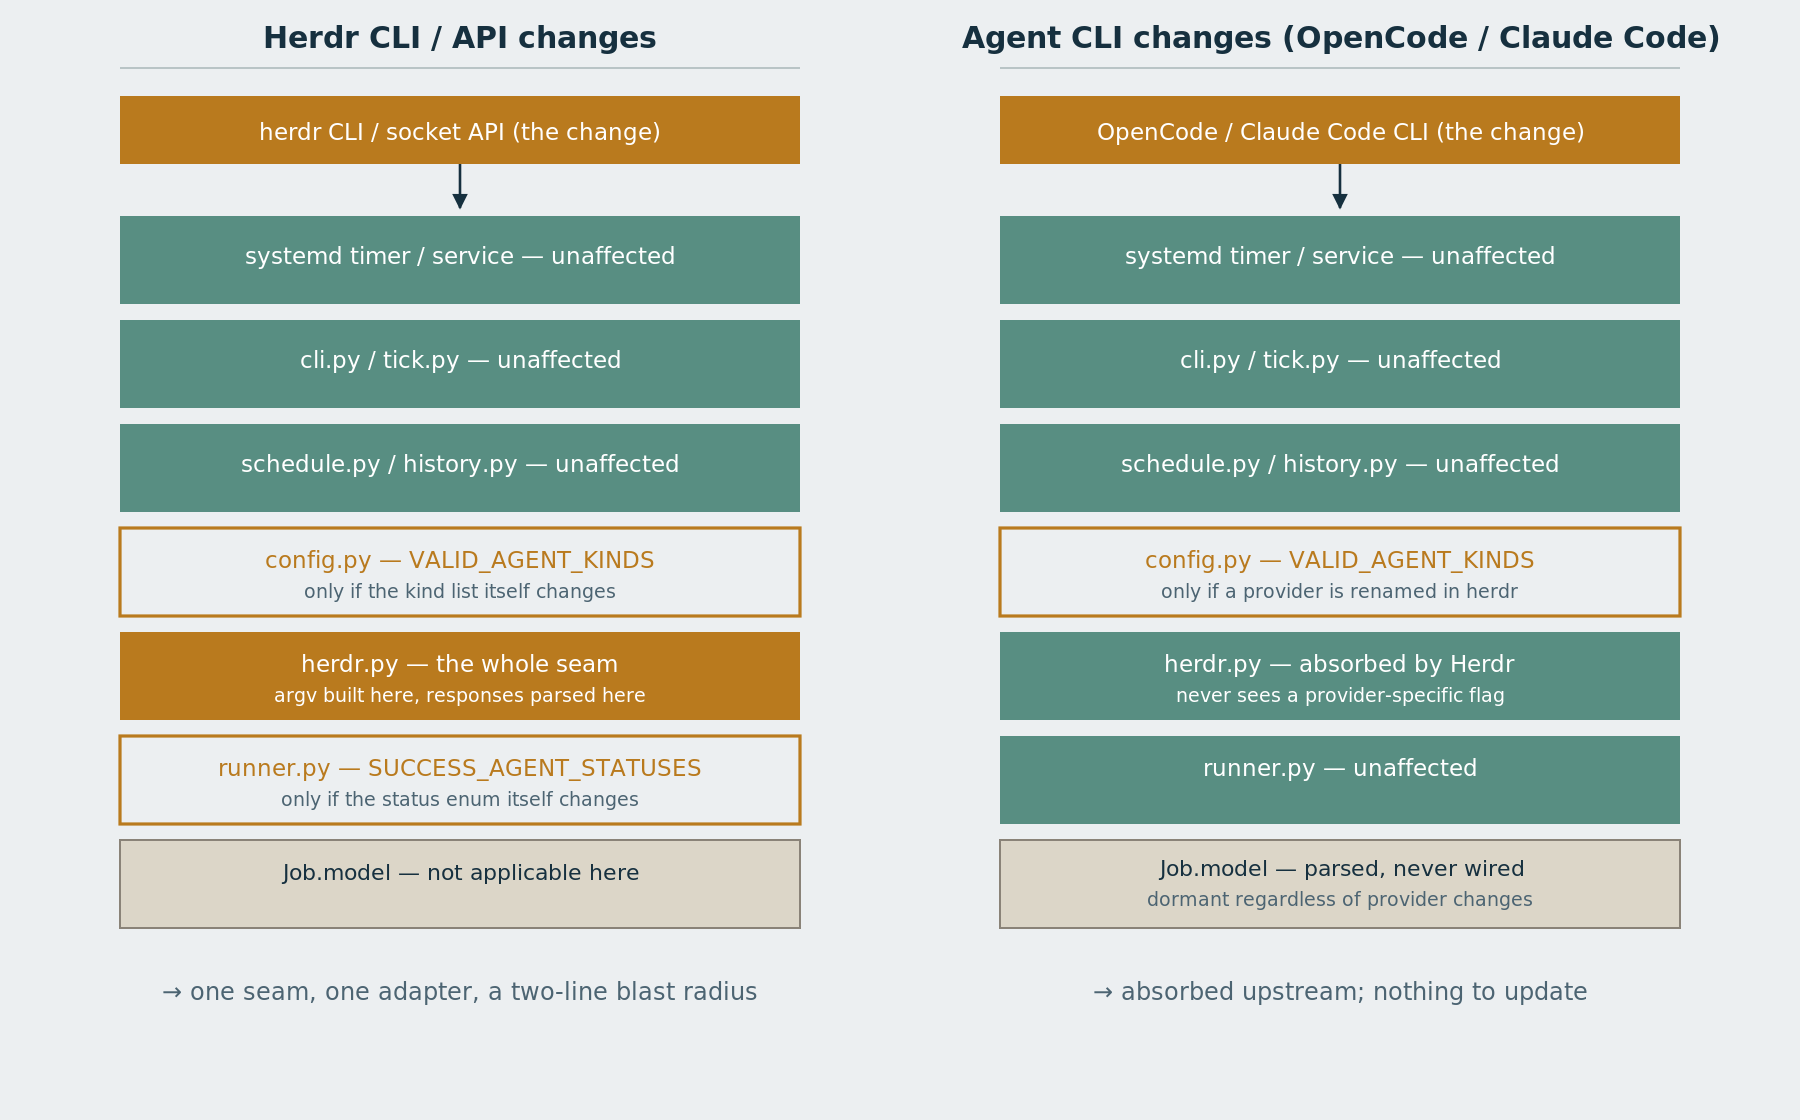
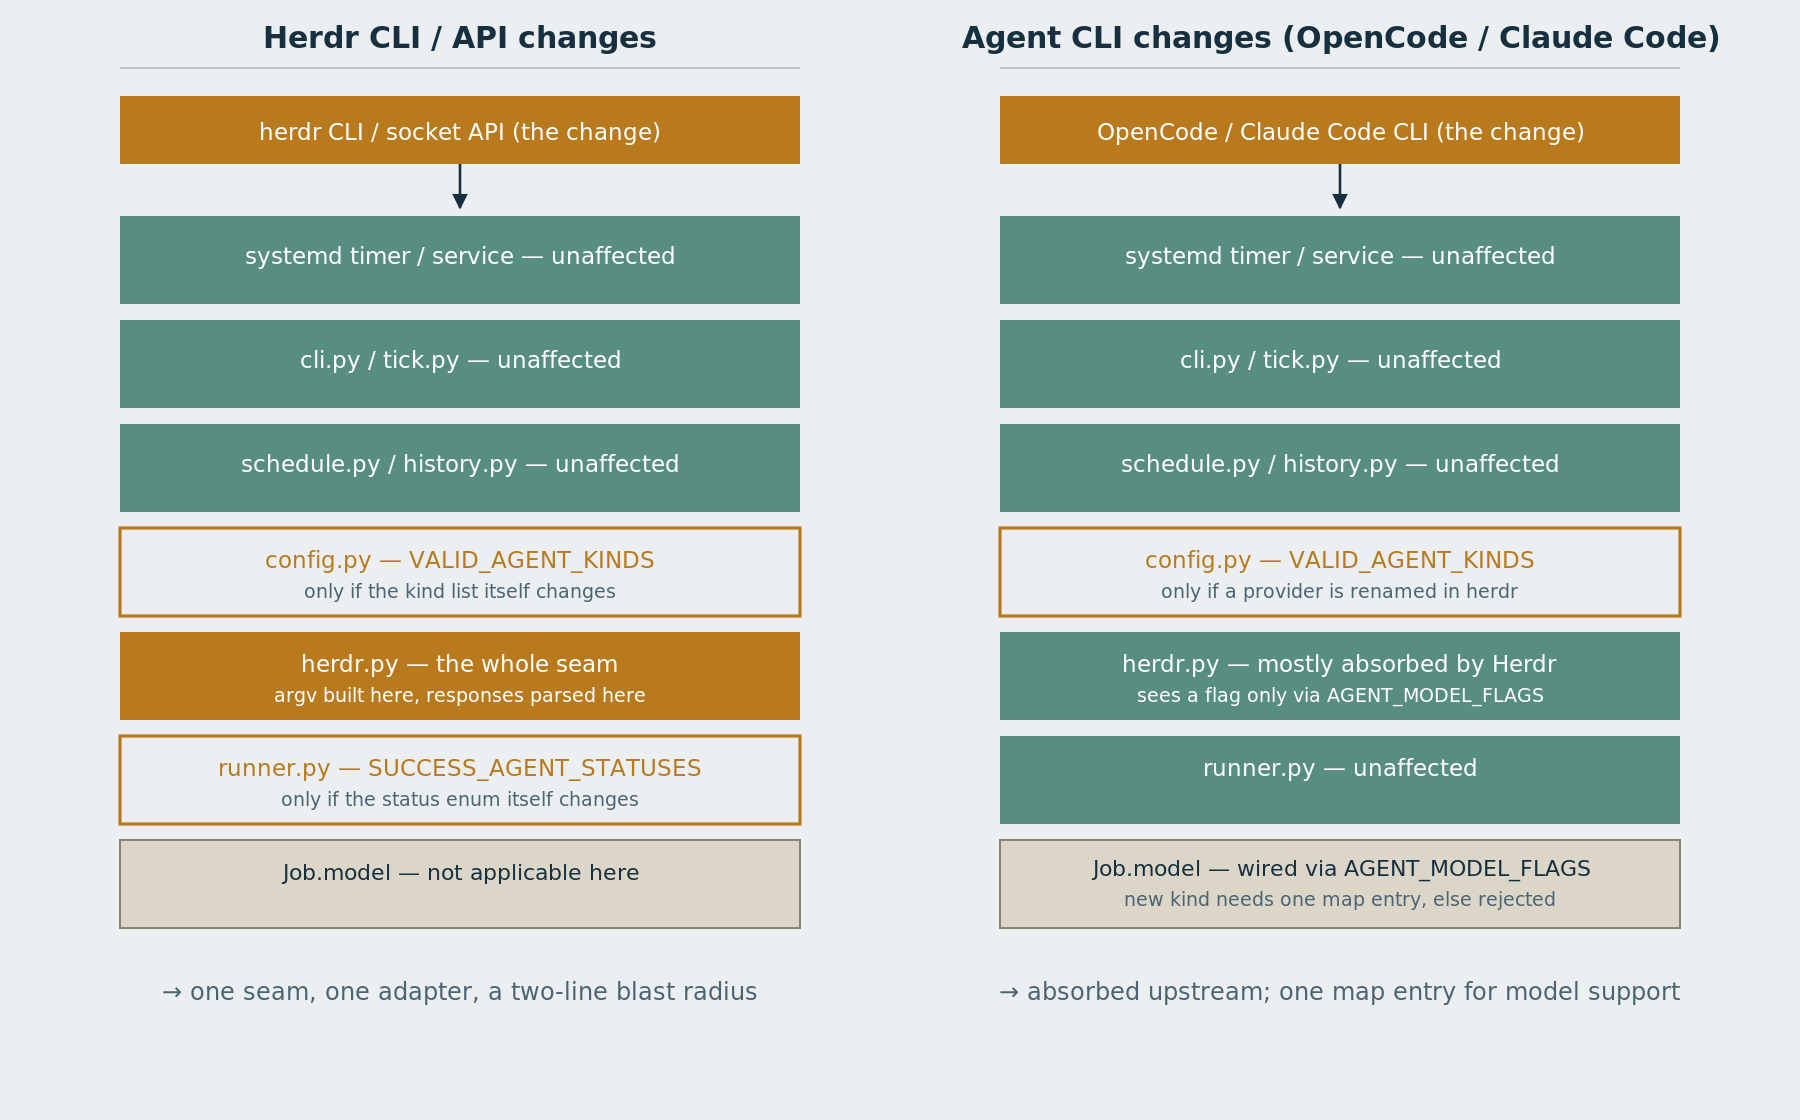
fix: address PR review comments
- Catch ValueError in execute_run to enforce its "never raises" contract
  (runner.py:188 previously only caught HerdrCliError and OSError)
- Regenerate blast-radius.png to match updated SVG (model wiring text)

Changed region(s): [[0.6222, 0.75, 0.8711, 0.8125], [0.6222, 0.5625, 0.8711, 0.625], [0.56, 0.875, 0.9333, 0.9062]]

diff --git a/src/herdr_routines/runner.py b/src/herdr_routines/runner.py
@@ -185,7 +185,7 @@ def execute_run(job: Job, client: HerdrClient, *, run_id: str) -> RunOutcome:
             start_timeout_ms=job.start_timeout_ms,
             model=job.model,
         )
-    except (HerdrCliError, OSError) as e:
+    except (HerdrCliError, OSError, ValueError) as e:
         return RunOutcome(
             state="failed",
             run_id=run_id,
